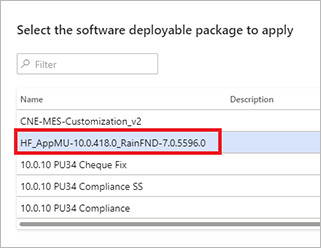
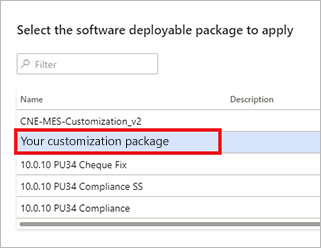
LBD fix

Changed region(s): [[0.0623, 0.5363, 0.6542, 0.5927]]

diff --git a/articles/supply-chain/cloud-edge/cloud-edge-edge-scale-units-lbd.md b/articles/supply-chain/cloud-edge/cloud-edge-edge-scale-units-lbd.md
@@ -44,11 +44,11 @@ The following table provides an overview of the deployment steps.
 
 |Responsibility  |Step  |Details  |
 |---------|---------|---------|
-|Microsoft|An additional 60 day limited slot for an LBD environment will be provided based on customer situation.|Edge scale unit in preview target existing LBD customers.|
+|Microsoft|An additional 60 day limited LBD sandbox slot will be provided based on customer situation.|Edge scale unit in preview target existing LBD customers.|
 |Customer|Set up the LBD environment with empty database. | More information: [Set up and deploy on-premises environments (Platform update 12 and later)](../../fin-ops-core/dev-itpro/deployment/setup-deploy-on-premises-pu12.md) |
-|Customer|Deploy the LBD environment through LCS.|More information: [Set up and deploy on-premises environments (Platform update 12 and later)](../../fin-ops-core/dev-itpro/deployment/setup-deploy-on-premises-pu12.md) |
-|Customer / Microsoft|Upload a package with the same application and platform build that was deployed on the hub to the LCS asset library of the on-premises project.|         |
-|Customer|Upload a customization package that was deployed on the hub to the LCS asset library of the on-premises project.|         |
+|Customer|Deploy the LBD environment through LCS.|More information: [Set up and deploy on-premises environments (Platform update 12 and later)](../../fin-ops-core/dev-itpro/deployment/setup-deploy-on-premises-pu12.md) Please note this must be the PEAP build 10.0.15.|
+|Customer / Microsoft|Upload a package with the same application and platform build that was deployed on the hub to the LCS asset library of the on-premises project.||
+|Customer|Upload a customization package that was deployed on the hub to the LCS asset library of the on-premises project.|If you want to deploy customizations then deploy them both into the hub and the edge scale unit.|
 |Customer|Service the LBD environment with the previously uploaded application and platform package.|This ensures that the hub and spoke have the same build deployed.|
 |Customer|Service the LBD environment with the previously uploaded customization package.|This makes non-shippable models and your customizations available on the LBD environment.|
 |Customer|Set up the cloud and edge pre-deployment script on the LBD environment.|This script injects the attributes needed by the topology (instance ID, triggers enabled, and scale unit enabled).|
@@ -85,7 +85,7 @@ Do the following:
 
 Do the following:
 
-1. Download the infrastructure scripts. (This is already part of [setting up an LBD environment](../../fin-ops-core/dev-itpro/deployment/setup-deploy-on-premises-pu12.md).)
+1. Download the latest release of the infrastructure scripts. (This is already part of [setting up an LBD environment](../../fin-ops-core/dev-itpro/deployment/setup-deploy-on-premises-pu12.md).)
 
 1. Set up the pre-deployment script.
 
@@ -115,7 +115,7 @@ Do the following:
 ## Assign your LBD edge scale unit to a hub
 
 > [!IMPORTANT]
-> If want to use edge scale units with your preview deployment you need to do all scale unit configuration in the user experience on the hub as described below. The Scale Unit Manager Portal cannot be used if you include an edge scale unit.
+> **In the public preview only:** If want to use edge scale units with your preview deployment you need to do all scale unit configuration in the user experience on the hub as described below. The Scale Unit Manager Portal cannot be used if you include an edge scale unit.
 
 ### Configure the hub environment for use with edge scale units
 
